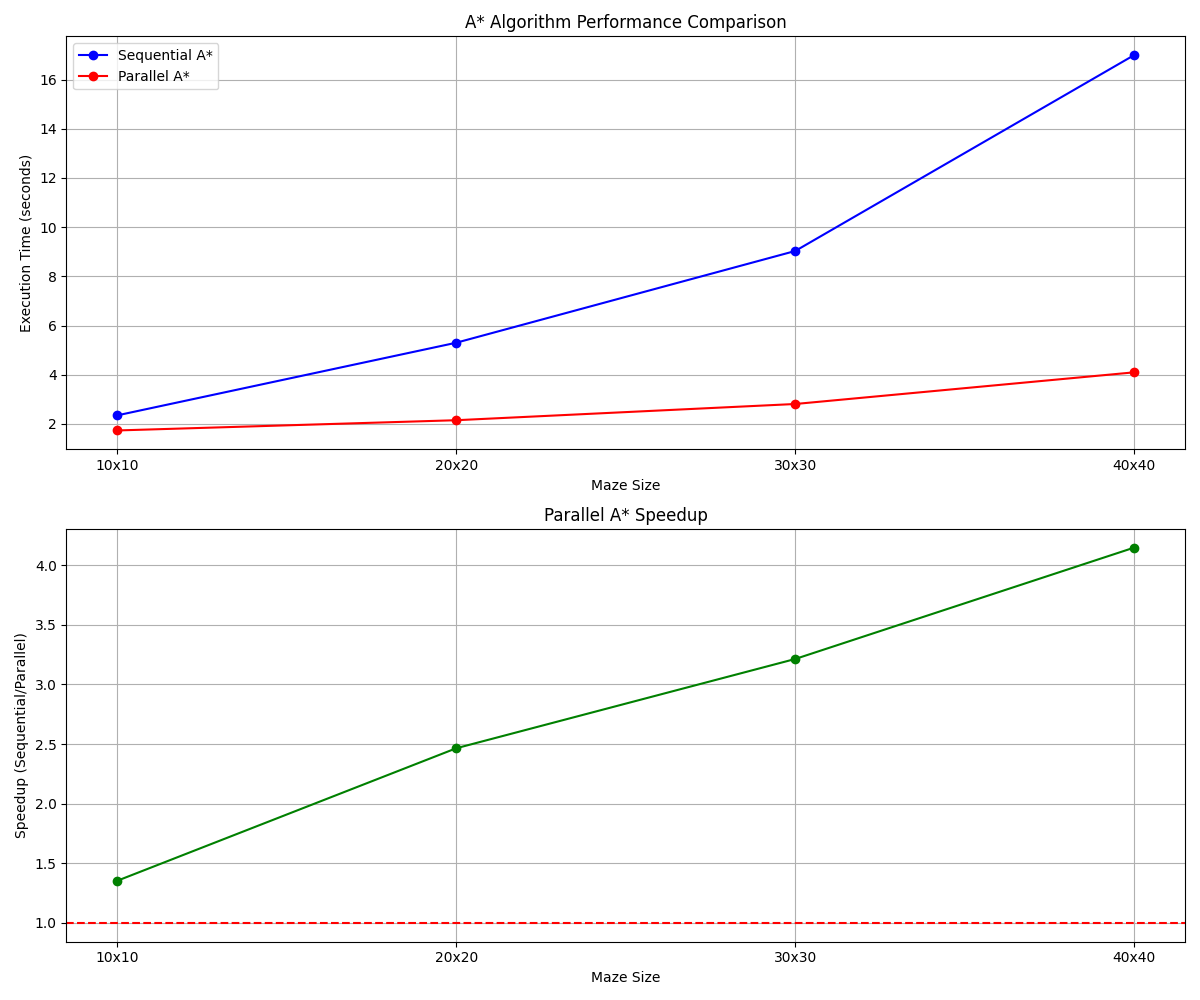
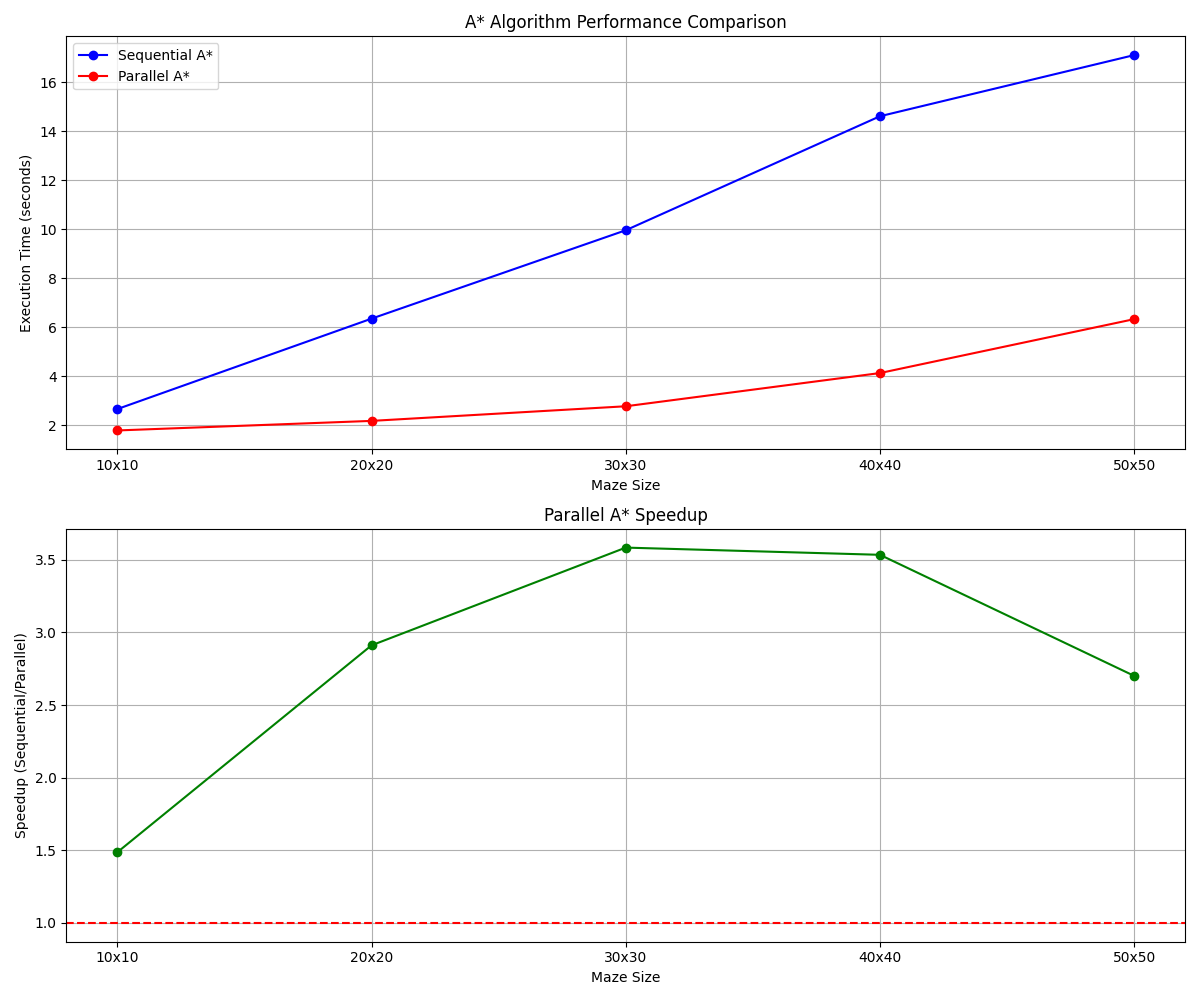
dijkstras performance improved.

diff --git a/algorithms/parallel_dijkstra.py b/algorithms/parallel_dijkstra.py
@@ -12,7 +12,6 @@ global_goal_id = None
 global_delta = None
 global_nodes_explored = None
 
-
 def init_worker(costs, parents, visited, goal_id, delta, nodes_explored):
     """Initializer function to set up global variables in each worker process."""
     global global_costs, global_parents, global_visited, global_goal_id, global_delta, global_nodes_explored
@@ -24,28 +23,29 @@ def init_worker(costs, parents, visited, goal_id, delta, nodes_explored):
     global_nodes_explored = nodes_explored
 
 def process_bucket_nodes(args):
-    """Process nodes in a bucket. Uses global shared memory variables."""
+    """Process nodes in a bucket with reduced lock contention."""
     nodes_to_process, bucket_idx = args
     local_relaxed_edges = []
     found_goal = False
-
+    local_nodes_explored = 0
+    
+    # Get values once with lock to minimize contention
+    with global_costs.get_lock():
+        local_costs = {node.id: global_costs[node.id] for node in nodes_to_process}
+    
+    # Collect local updates to apply later in batch
+    local_cost_updates = {}
+    local_parent_updates = {}
+    
     for node in nodes_to_process:
-        with global_costs.get_lock():
-            current_cost = global_costs[node.id]
+        current_cost = local_costs[node.id]
+        local_nodes_explored += 1
         
-        # Mark node as visited
-        with global_visited.get_lock():
-            global_visited[node.id] = 1
-        
-        # Count explored node
-        with global_nodes_explored.get_lock():
-            global_nodes_explored.value += 1
-
         if node.id == global_goal_id:
             found_goal = True
             continue
-
-        # Process all neighbors
+        
+        # Process all neighbors without locks
         for neighbor in node.friend:
             if neighbor.data == "X":
                 continue
@@ -53,48 +53,49 @@ def process_bucket_nodes(args):
             weight = 20  # Standard edge weight
             new_cost = current_cost + weight
             
-            with global_costs.get_lock():
-                if new_cost < global_costs[neighbor.id]:
-                    global_costs[neighbor.id] = new_cost
-                    with global_parents.get_lock():
-                        global_parents[neighbor.id] = node.id
-                    
-                    # Add to relaxed edges for bucket processing
-                    new_bucket = int(new_cost // global_delta)
-                    local_relaxed_edges.append((neighbor, new_bucket))
+            # Store updates locally without locks
+            if neighbor.id not in local_cost_updates or new_cost < local_cost_updates[neighbor.id]:
+                local_cost_updates[neighbor.id] = new_cost
+                local_parent_updates[neighbor.id] = node.id
+                new_bucket = int(new_cost // global_delta)
+                local_relaxed_edges.append((neighbor, new_bucket))
+    
+    # Now apply updates with minimal lock acquisitions
+    nodes_to_visit = set(node.id for node in nodes_to_process)
+    
+    # Update costs in a single lock acquisition
+    if local_cost_updates:
+        with global_costs.get_lock():
+            for n_id, n_cost in local_cost_updates.items():
+                if n_cost < global_costs[n_id]:
+                    global_costs[n_id] = n_cost
+                    global_parents[n_id] = local_parent_updates.get(n_id)
+                else:
+                    # Remove from relaxed edges if we didn't actually improve
+                    local_relaxed_edges = [(n, b) for n, b in local_relaxed_edges if n.id != n_id]
+    
+    # Mark visited all at once
+    with global_visited.get_lock():
+        for node_id in nodes_to_visit:
+            global_visited[node_id] = 1
+    
+    # Update nodes explored counter once
+    with global_nodes_explored.get_lock():
+        global_nodes_explored.value += local_nodes_explored
 
     return local_relaxed_edges, found_goal
 
-def parallel_process_bucket(current_bucket, buckets, costs, parents, visited, goal_id, delta, nodes_explored, num_processes):
-    """Process a bucket in parallel using a pool of workers."""
-    if not buckets[current_bucket]:
-        return [], False
-
-    nodes_per_process = max(1, len(buckets[current_bucket]) // num_processes)
-    node_chunks = [buckets[current_bucket][i:i + nodes_per_process] 
-                   for i in range(0, len(buckets[current_bucket]), nodes_per_process)]
-    args = [(chunk, current_bucket) for chunk in node_chunks]
-
-    # Initialize pool with shared memory variables
-    with mp.Pool(
-        processes=min(num_processes, len(node_chunks)),
-        initializer=init_worker,
-        initargs=(costs, parents, visited, goal_id, delta, nodes_explored)
-    ) as pool:
-        results = pool.map(process_bucket_nodes, args)
-
-    all_relaxed_edges = []
-    goal_found = False
-    for relaxed_edges, found_goal in results:
-        all_relaxed_edges.extend(relaxed_edges)
-        if found_goal:
-            goal_found = True
-    return all_relaxed_edges, goal_found
-
 def delta_stepping_dijkstra(start, goal, nodes, original_maze, path, finalPath, goal_pen, num_processes=None, delta=20):
-    """Delta-Stepping Parallel Dijkstra's algorithm using shared memory."""
+    """Delta-Stepping Parallel Dijkstra's algorithm using shared memory with reduced overhead."""
+    # Auto-configure number of processes
     if num_processes is None:
-        num_processes = mp.cpu_count()
+        num_processes = max(1, mp.cpu_count() - 1)  # Leave one core free for system
+    
+    # Adjust delta based on maze size for better parallelization
+    if delta <= 0:
+        delta = max(20, len(nodes) // 100)
+    
+    print(f"Running parallel Dijkstra with {num_processes} processes, delta={delta}")
 
     # Reset node attributes
     for node in nodes:
@@ -108,9 +109,9 @@ def delta_stepping_dijkstra(start, goal, nodes, original_maze, path, finalPath, 
         node.id = idx
 
     # Create shared memory arrays
-    costs = mp.Array('d', num_nodes, lock=True)
-    parents = mp.Array('i', num_nodes, lock=True)
-    visited = mp.Array('b', num_nodes, lock=True)
+    costs = mp.Array('d', num_nodes)
+    parents = mp.Array('i', num_nodes)
+    visited = mp.Array('b', num_nodes)
 
     # Initialize shared arrays
     for i in range(num_nodes):
@@ -130,39 +131,64 @@ def delta_stepping_dijkstra(start, goal, nodes, original_maze, path, finalPath, 
     start_time = time.time()
     nodes_explored = mp.Value('i', 0)
 
-    current_bucket = 0
-    max_bucket = 1000  # Reasonable upper limit to prevent infinite loops
-    goal_found = False
-    
-    while current_bucket <= max_bucket and not goal_found:
-        if not buckets[current_bucket]:
+    # Use context manager to ensure proper cleanup
+    with mp.Pool(
+        processes=num_processes,
+        initializer=init_worker,
+        initargs=(costs, parents, visited, goal_id, delta, nodes_explored)
+    ) as pool:
+        current_bucket = 0
+        max_bucket = 1000  # Reasonable upper limit
+        goal_found = False
+        
+        while current_bucket <= max_bucket and not goal_found:
+            if not buckets[current_bucket]:
+                current_bucket += 1
+                continue
+
+            # Optimize chunk size based on problem size
+            total_nodes = len(buckets[current_bucket])
+            chunk_size = max(1, min(50, total_nodes // (num_processes * 2))) 
+            
+            # Create chunks with reasonable size
+            node_chunks = []
+            for i in range(0, total_nodes, chunk_size):
+                chunk = buckets[current_bucket][i:i + chunk_size]
+                if chunk:  # Only add non-empty chunks
+                    node_chunks.append(chunk)
+            
+            args = [(chunk, current_bucket) for chunk in node_chunks]
+            if not args:
+                current_bucket += 1
+                continue
+                
+            # Process all chunks in parallel
+            results = pool.map(process_bucket_nodes, args)
+
+            # Process results
+            all_relaxed_edges = []
+            for relaxed_edges, found_goal in results:
+                all_relaxed_edges.extend(relaxed_edges)
+                if found_goal:
+                    goal_found = True
+            
+            if goal_found:
+                break
+
+            # Add relaxed edges to buckets, avoiding duplicates efficiently
+            bucket_node_map = {}  # Track nodes already in buckets
+            for node, bucket_idx in all_relaxed_edges:
+                max_bucket = max(max_bucket, bucket_idx)
+                
+                # Only add each node to a bucket once per iteration
+                node_key = (node.id, bucket_idx)
+                if node_key not in bucket_node_map:
+                    bucket_node_map[node_key] = True
+                    buckets[bucket_idx].append(node)
+
+            # Clear the current bucket after processing
+            buckets[current_bucket].clear()
             current_bucket += 1
-            continue
-
-        # Process current bucket in parallel
-        relaxed_edges, found_goal = parallel_process_bucket(
-            current_bucket, buckets, costs, parents, visited, goal_id, delta, nodes_explored, num_processes
-        )
-
-        if found_goal:
-            goal_found = True
-            break
-
-        # Add relaxed edges to their respective buckets
-        for node, bucket_idx in relaxed_edges:
-            max_bucket = max(max_bucket, bucket_idx)
-            if node not in buckets[bucket_idx]:
-                buckets[bucket_idx].append(node)
-
-        # Clear the current bucket after processing
-        buckets[current_bucket].clear()
-        current_bucket += 1
-
-    # Update node attributes from shared memory
-    for node in nodes:
-        node.g_cost = costs[node.id]
-        parent_id = parents[node.id]
-        node.parent = nodes[parent_id] if parent_id != -1 else None
 
     # Calculate results
     end_time = time.time()
@@ -170,10 +196,19 @@ def delta_stepping_dijkstra(start, goal, nodes, original_maze, path, finalPath, 
     print(f"Delta-Stepping search completed in {execution_time:.4f} seconds")
     print(f"Nodes explored: {nodes_explored.value}")
 
+    # Update node attributes from shared memory
+    for i, node in enumerate(nodes):
+        node.g_cost = costs[i]
+        parent_id = parents[i]
+        if parent_id >= 0 and parent_id < len(nodes):
+            node.parent = nodes[parent_id]
+        else:
+            node.parent = None
+
     # Reconstruct path
     final_path = []
+    current = goal
     if visited[goal_id] or costs[goal_id] < float('inf'):
-        current = goal
         while current is not None:
             final_path.append(current)
             current = current.parent
@@ -182,4 +217,5 @@ def delta_stepping_dijkstra(start, goal, nodes, original_maze, path, finalPath, 
     else:
         print("No path found!")
 
+    # Make sure to finish the function properly
     return final_path, execution_time, nodes_explored.value

diff --git a/peformance_comparision_astar.py b/peformance_comparision_astar.py
@@ -225,7 +225,7 @@ def modified_a_star_search(start, goal, nodes, original_maze=None, path=None, fi
 if __name__ == "__main__":
     # Define maze sizes to test: (width, height)
     # Use slightly larger mazes to better see the parallel performance difference
-    sizes = [(10,10), (20, 20), (30, 30), (40, 40)]
+    sizes = [(10,10), (20, 20), (30, 30), (40, 40), (50, 50)]
     
     # Larger wall density will create more complex mazes
     wall_density = 0.25
